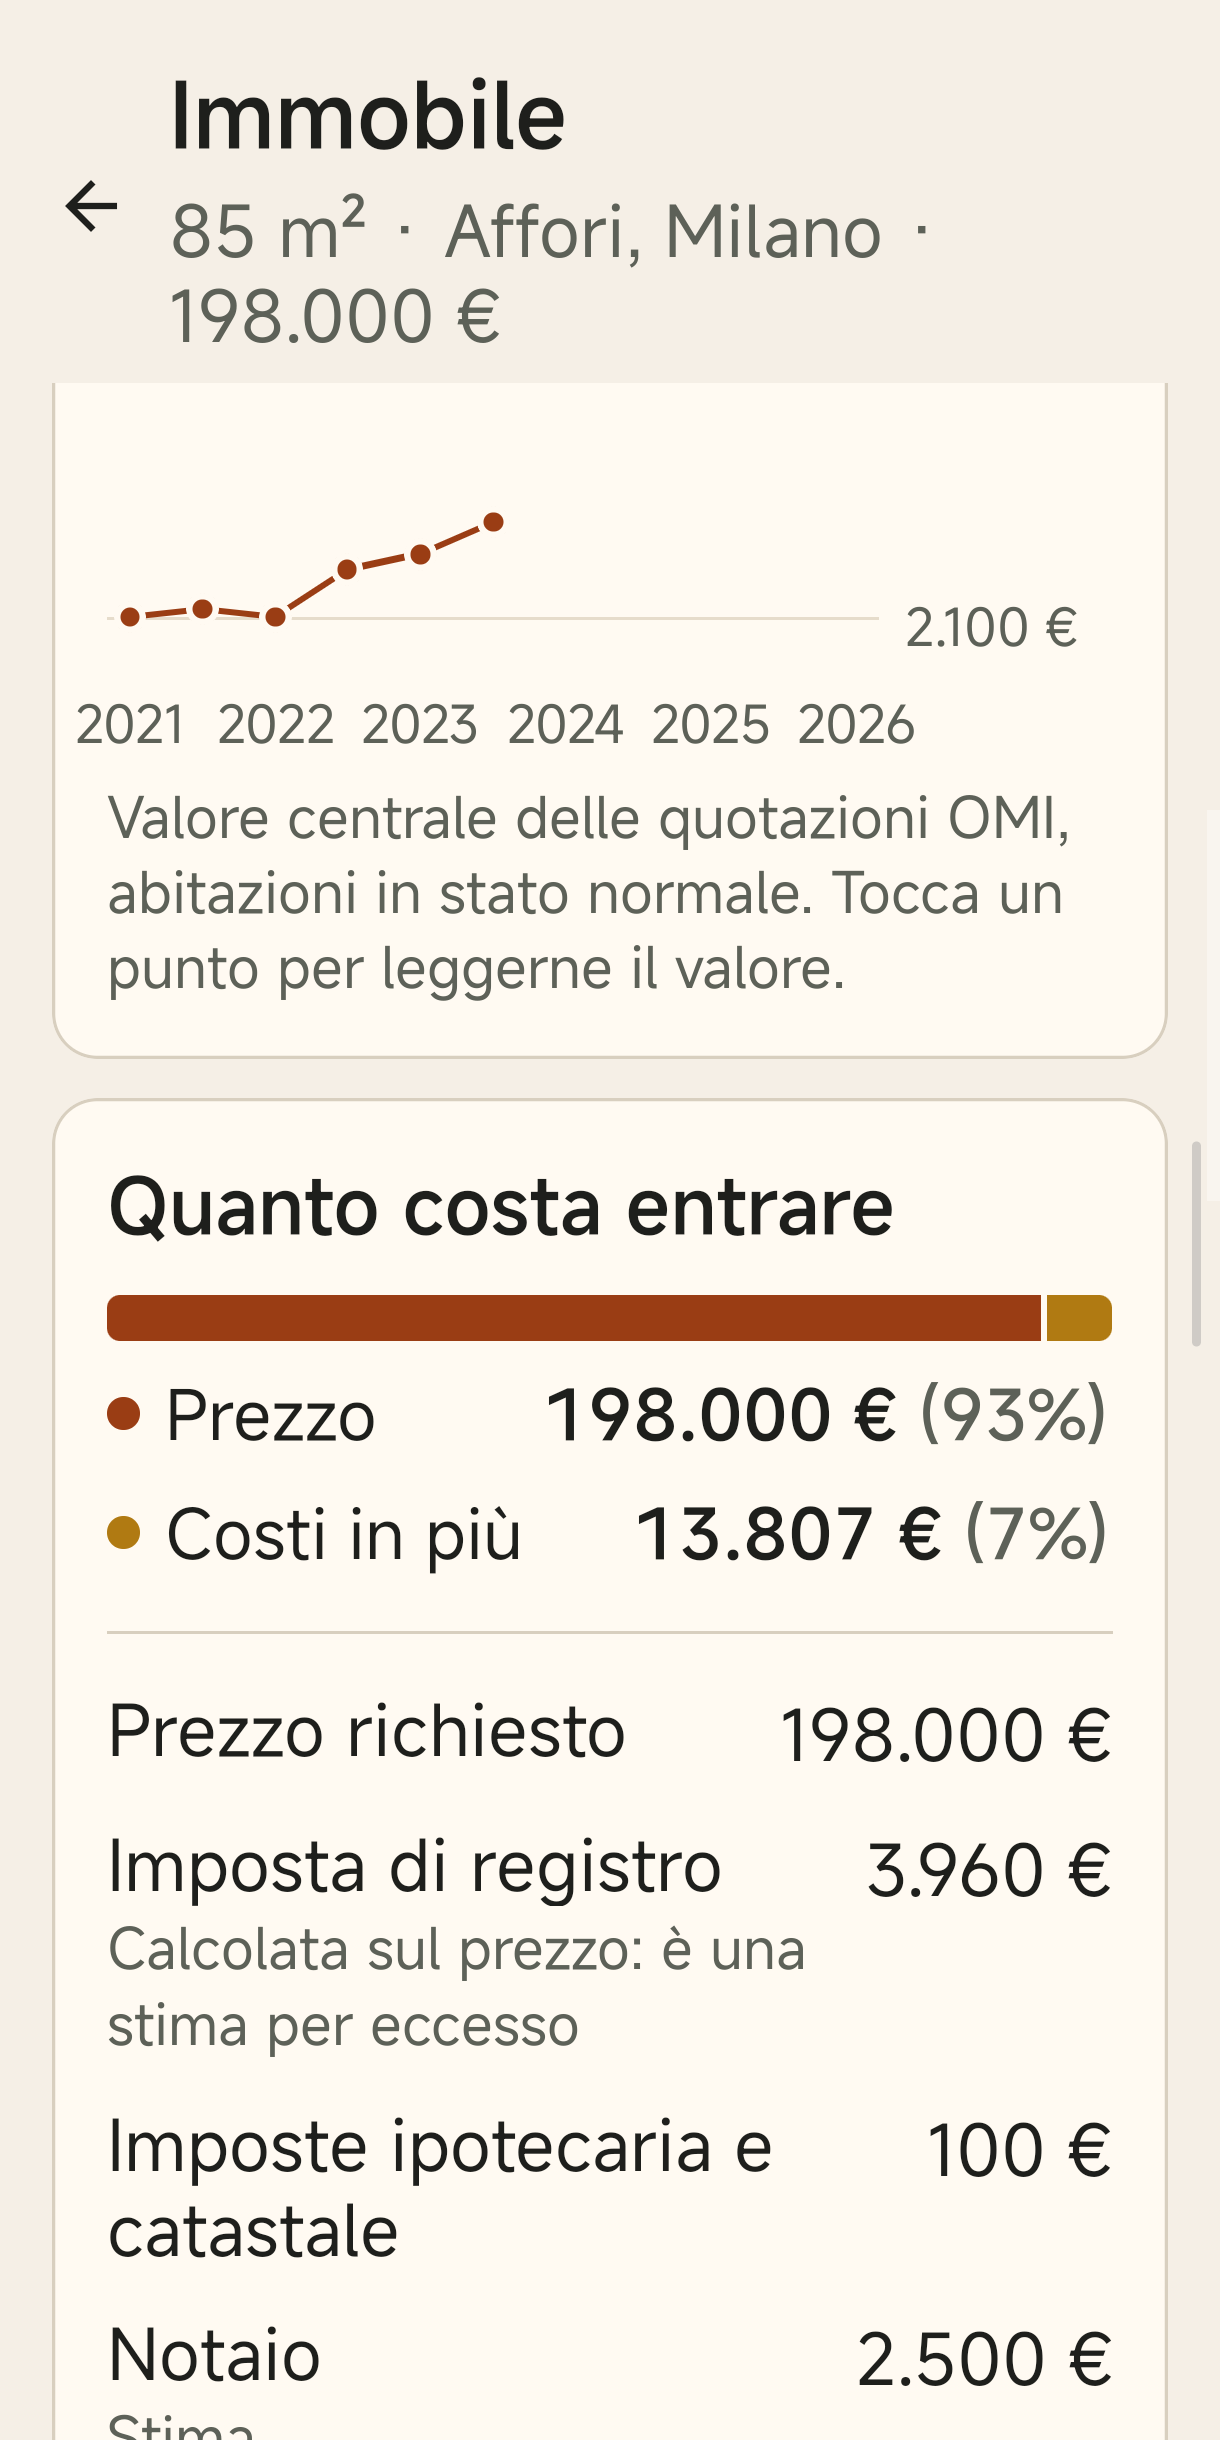
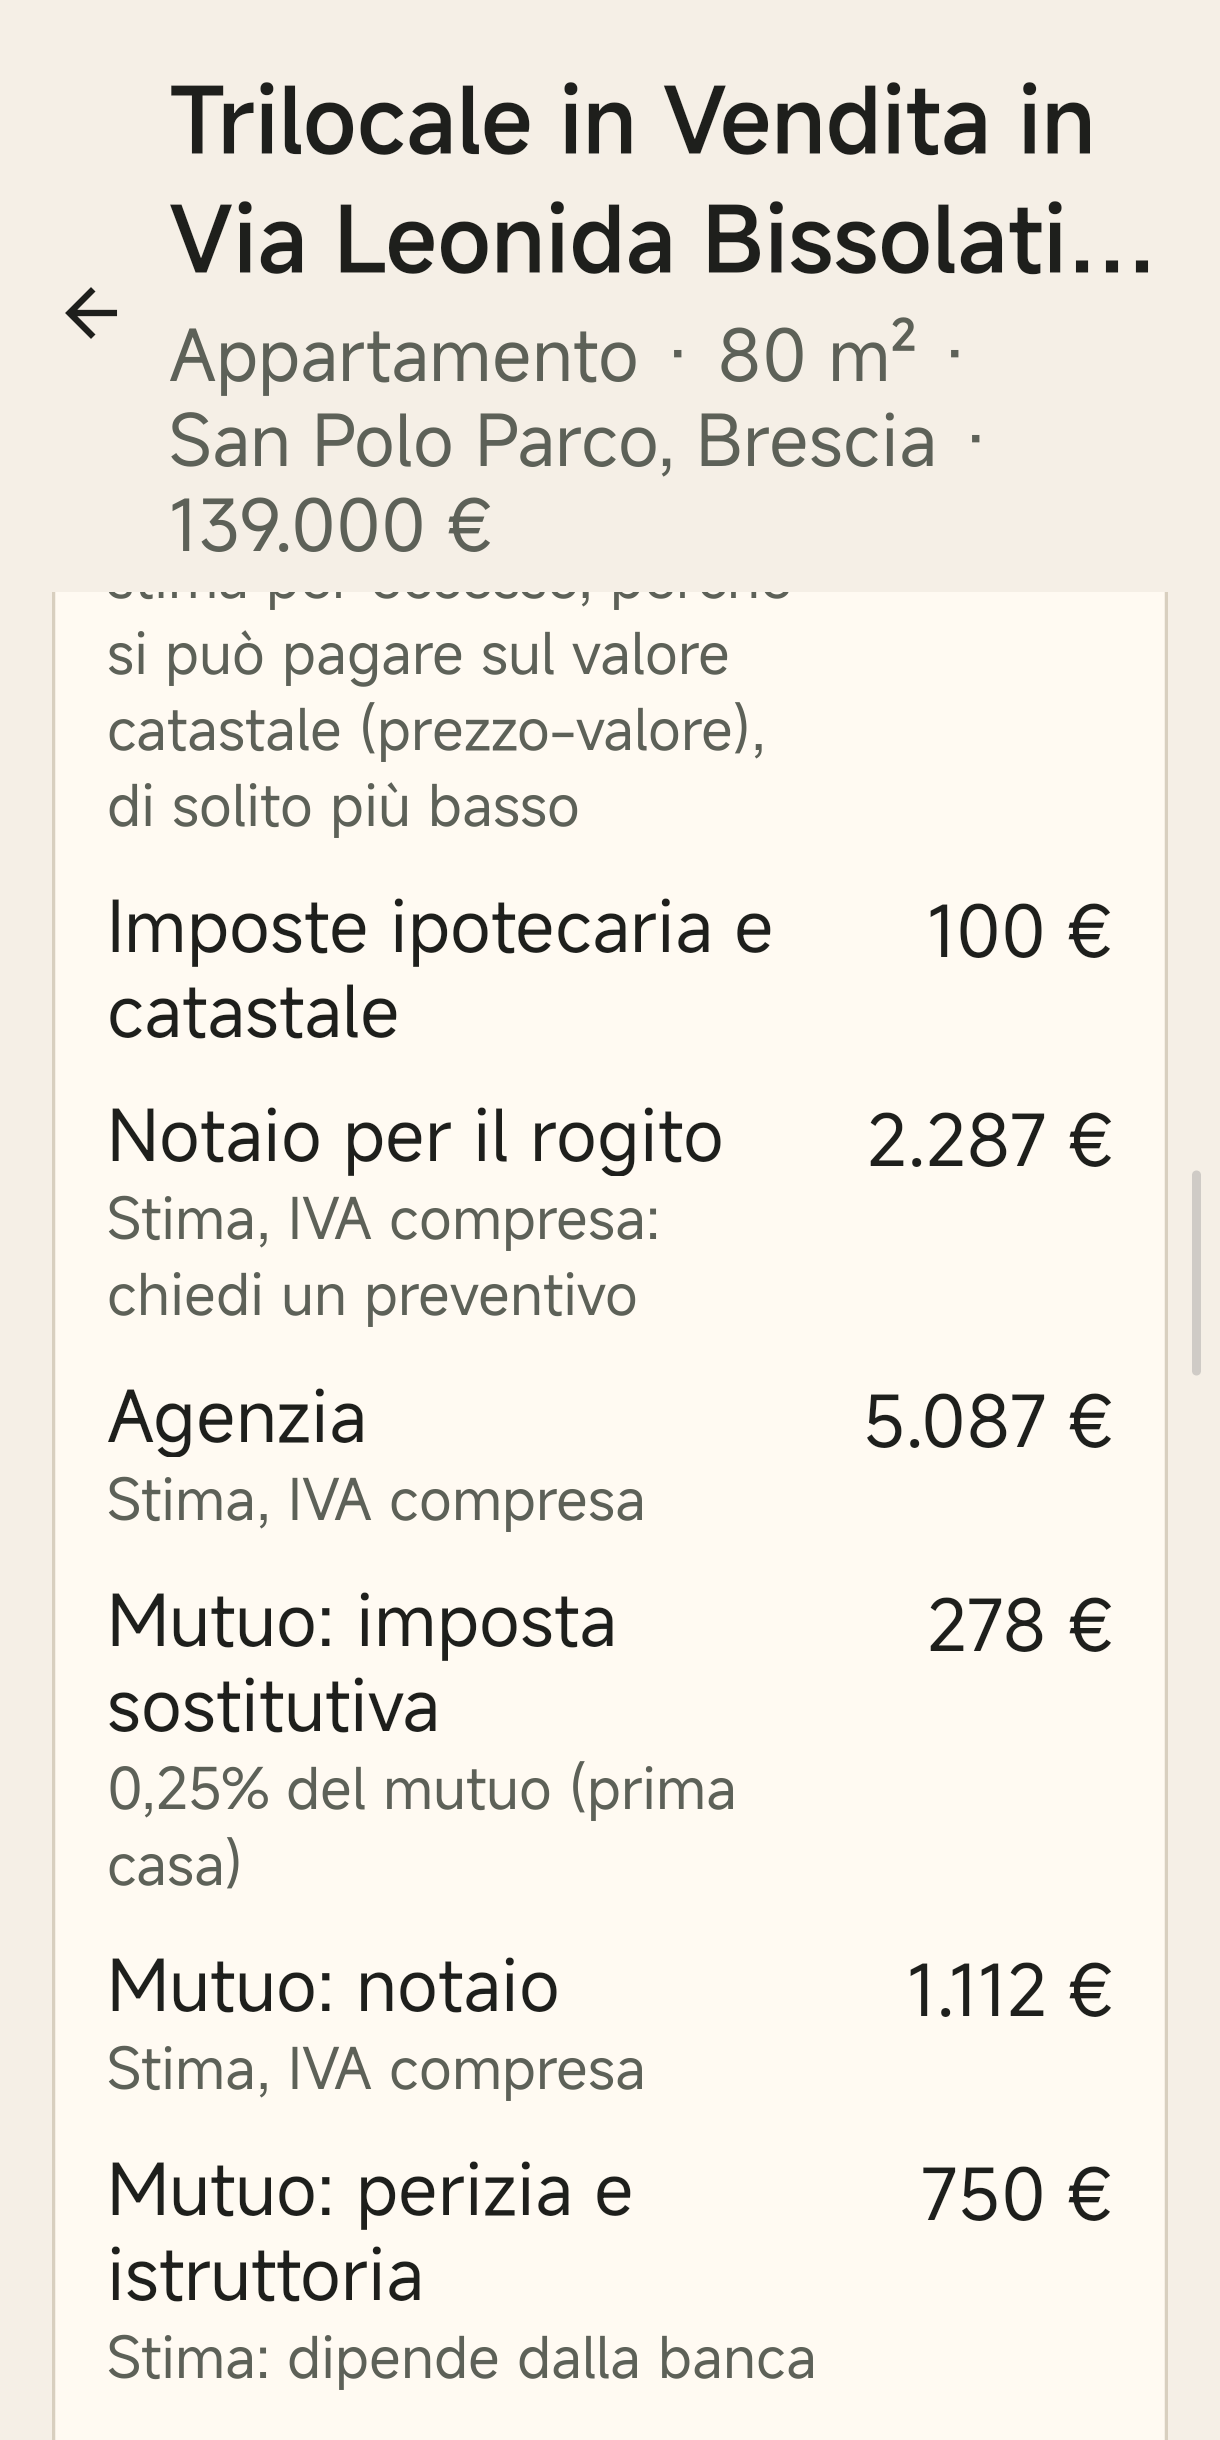
docs: Play listing for versionCode 2026111001, new cost and start screenshots
Release notes now come in a first-release and an update version. The cost
screenshot shows the mortgage rows; the start screenshot shows the Share
reminder.

diff --git a/assets/store/play-console.md b/assets/store/play-console.md
@@ -1,6 +1,6 @@
 # Affare Subito: cosa serve alla Play Console
 
-Pacchetto `com.st3fez.affaresubito`, versione 1.0.0 (versionCode 2026102701). Tutto in italiano.
+Pacchetto `com.st3fez.affaresubito`, versione 1.0.0 (versionCode 2026111001, bundle rifatto il 10/11/2026: stessa chiave di caricamento, impronta qui sotto). Tutto in italiano.
 
 ## File da caricare
 
@@ -82,10 +82,16 @@ FONTI E LIMITI
 I valori di mercato vengono dalle quotazioni dell'Osservatorio del Mercato Immobiliare (OMI) dell'Agenzia delle Entrate. I risultati sono stime basate su valori di zona e su ipotesi che puoi modificare: non sono consulenza finanziaria, fiscale o legale. Prima di acquistare, affittare o investire rivolgiti a un professionista.
 ```
 
-**Novità di questa versione:**
+**Novità di questa versione** (500 caratteri al massimo). Se è il primo rilascio pubblicato:
 
 ```
 Prima versione di Affare Subito: condividi l'annuncio dal portale e ottieni il verdetto sul prezzo, il costo per entrare, gli affitti, quattro usi della casa, l'archivio e il confronto.
+```
+
+Se invece una versione precedente (per esempio la 2026102701) è già online, usa questa:
+
+```
+Condividi l'annuncio dall'app o dal sito del portale (immobiliare.it, casa.it, idealista.it, tecnocasa.it, RE/MAX) e l'analisi parte da sola. Letture più precise degli annunci e costi d'acquisto più realistici: notaio in base al prezzo e spese del mutuo.
 ```
 
 **Categoria:** Casa e arredamento (House & Home). **Tag:** immobili, mutuo, affitto. **Indirizzo e-mail di contatto:** il tuo (è pubblico nella scheda).
